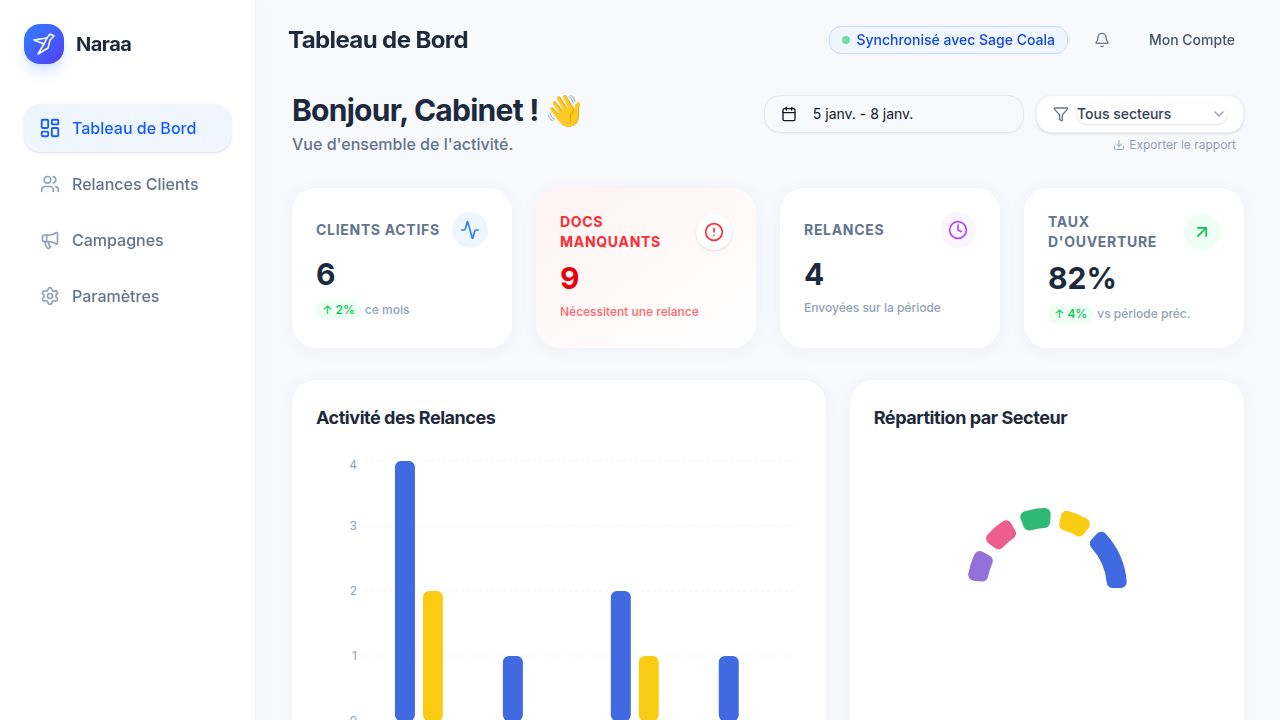
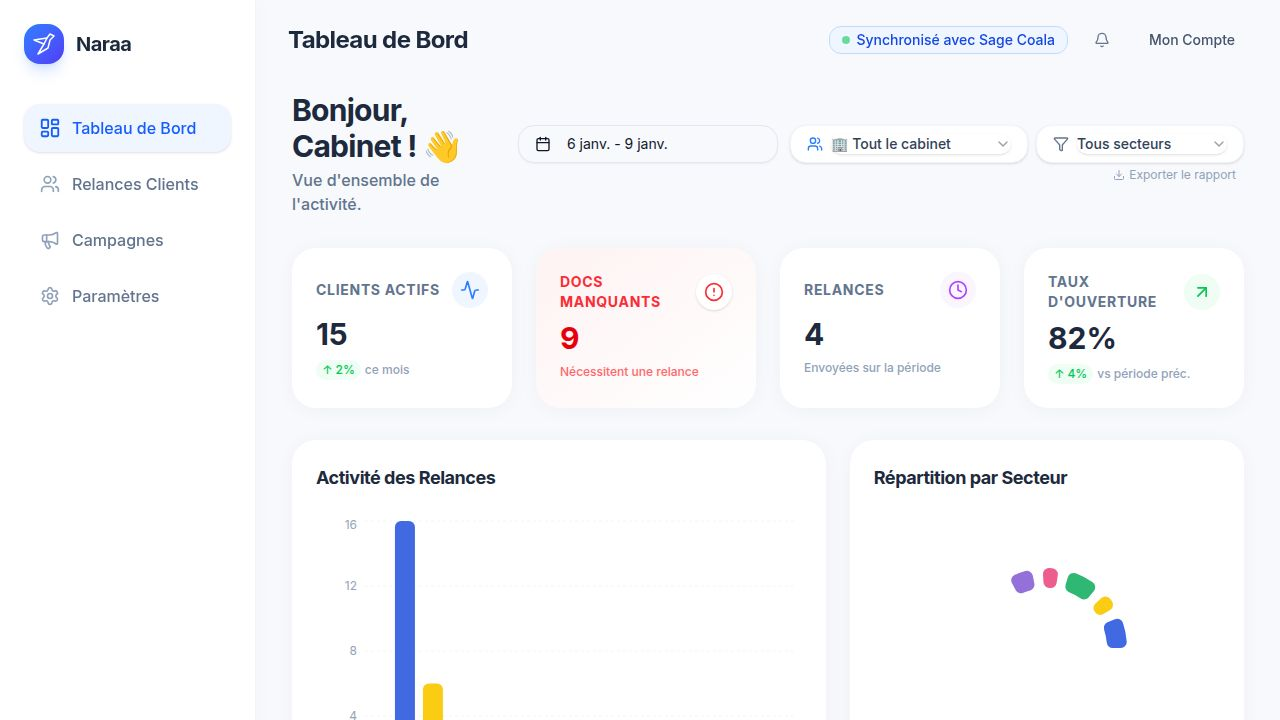
Add team member filtering to dashboard view
Integrates team member filtering on the dashboard, allowing users to view data aggregated by associates, collaborators, or the entire firm, and updates mock data with team member information and client assignments.

Replit-Commit-Author: Agent
Replit-Commit-Session-Id: c0703b9d-89b6-4631-8607-b3d2e10f8ac2
Replit-Commit-Checkpoint-Type: full_checkpoint
Replit-Commit-Event-Id: 6f1ac17b-f9d2-4d9a-b8ae-72bd7a6fa2ad
Replit-Commit-Screenshot-Url: https://storage.googleapis.com/screenshot-production-us-central1/aa67c514-b724-4d5a-8a85-482ac77d083c/c0703b9d-89b6-4631-8607-b3d2e10f8ac2/DarMPFz
Replit-Helium-Checkpoint-Created: true

diff --git a/client/src/pages/dashboard.tsx b/client/src/pages/dashboard.tsx
@@ -1,6 +1,7 @@
 import Layout from "@/components/layout/Layout";
 import { Card, CardContent, CardHeader, CardTitle } from "@/components/ui/card";
-import { mockClients, mockDocuments, mockReminders, mockAccountingEntries, mockCampaigns } from "@/lib/mockData";
+import { mockClients, mockDocuments, mockReminders, mockAccountingEntries, mockCampaigns, mockTeamMembers } from "@/lib/mockData";
+import { Users } from "lucide-react";
 import { ArrowUpRight, AlertCircle, Filter, Activity, Clock, ChevronRight, Calendar as CalendarIcon, Mail, Send, XCircle, AlertTriangle, ArrowUpDown, Download, MessageSquare, Phone } from "lucide-react";
 import { RadioGroup, RadioGroupItem } from "@/components/ui/radio-group";
 import { BarChart, Bar, XAxis, YAxis, CartesianGrid, Tooltip, ResponsiveContainer, PieChart, Pie, Cell, Legend } from 'recharts';
@@ -49,7 +50,28 @@ const COLORS = ['hsl(225 73% 57%)', 'hsl(48 96% 53%)', 'hsl(150 60% 45%)', 'hsl(
 export default function Dashboard() {
   const { t, dateLocale } = useLanguage();
   const [sectorFilter, setSectorFilter] = useState("All");
+  const [teamFilter, setTeamFilter] = useState("all"); // 'all', 'associates', 'collaborators', or specific member ID
   const [activeIntegration, setActiveIntegration] = useState<string | null>('sage');
+
+  // Team filtering helpers
+  const associates = mockTeamMembers.filter(m => m.role === 'associate');
+  const collaborators = mockTeamMembers.filter(m => m.role === 'collaborator');
+
+  const getFilteredClientsByTeam = () => {
+    if (teamFilter === 'all') return mockClients;
+    if (teamFilter === 'associates') {
+      const associateIds = associates.map(a => a.id);
+      return mockClients.filter(c => associateIds.includes(c.managerId));
+    }
+    if (teamFilter === 'collaborators') {
+      const collaboratorIds = collaborators.map(c => c.id);
+      return mockClients.filter(c => collaboratorIds.includes(c.managerId));
+    }
+    // Specific team member
+    return mockClients.filter(c => c.managerId === teamFilter);
+  };
+
+  const teamFilteredClients = getFilteredClientsByTeam();
 
   useEffect(() => {
     // Check for saved integration
@@ -169,15 +191,18 @@ Votre Expert-Comptable`
     return isWithinInterval(d, { start: date.from, end: end });
   };
 
-  const filteredClients = mockClients.filter(c => {
+  const filteredClients = teamFilteredClients.filter(c => {
     const sectorMatch = sectorFilter === "All" || c.sector === sectorFilter;
     return sectorMatch && c.status === 'active';
   });
 
   const totalClients = filteredClients.length;
   
+  const teamFilteredClientIds = teamFilteredClients.map(c => c.id);
+
   const filteredDocs = mockDocuments.filter(d => 
-    d.status === 'missing' && 
+    d.status === 'missing' &&
+    teamFilteredClientIds.includes(d.clientId) && 
     filteredClients.map(c => c.id).includes(d.clientId) &&
     // Show missing documents that were due in the period or are overdue
     (isInDateRange(d.dueDate) || new Date(d.dueDate) < new Date()) 
@@ -440,19 +465,57 @@ Votre Expert-Comptable`
             </div>
 
              <div className="flex flex-col items-end gap-1">
-               <div className="flex items-center gap-2 bg-white dark:bg-slate-900 px-4 py-2 rounded-2xl shadow-sm border border-slate-100 dark:border-slate-800">
-                 <Filter className="h-4 w-4 text-slate-500 dark:text-slate-400" />
-                 <Select value={sectorFilter} onValueChange={setSectorFilter}>
-                   <SelectTrigger className="border-none h-auto p-0 focus:ring-0 w-[150px] font-medium text-slate-700 dark:text-slate-300 bg-transparent">
-                     <SelectValue placeholder={t("dashboard.all_sectors")} />
-                   </SelectTrigger>
-                   <SelectContent className="rounded-xl border-slate-100 dark:border-slate-800 dark:bg-slate-900 shadow-lg">
-                     <SelectItem value="All" className="rounded-lg cursor-pointer dark:text-slate-300 dark:focus:bg-slate-800">{t("dashboard.all_sectors")}</SelectItem>
-                     {uniqueSectors.map(s => (
-                       <SelectItem key={s} value={s} className="rounded-lg cursor-pointer dark:text-slate-300 dark:focus:bg-slate-800">{s}</SelectItem>
-                     ))}
-                   </SelectContent>
-                 </Select>
+               <div className="flex items-center gap-2">
+                 {/* Team Filter */}
+                 <div className="flex items-center gap-2 bg-white dark:bg-slate-900 px-4 py-2 rounded-2xl shadow-sm border border-slate-100 dark:border-slate-800">
+                   <Users className="h-4 w-4 text-blue-500 dark:text-blue-400" />
+                   <Select value={teamFilter} onValueChange={setTeamFilter}>
+                     <SelectTrigger className="border-none h-auto p-0 focus:ring-0 w-[180px] font-medium text-slate-700 dark:text-slate-300 bg-transparent">
+                       <SelectValue placeholder="Tout le cabinet" />
+                     </SelectTrigger>
+                     <SelectContent className="rounded-xl border-slate-100 dark:border-slate-800 dark:bg-slate-900 shadow-lg max-h-[400px]">
+                       <SelectItem value="all" className="rounded-lg cursor-pointer dark:text-slate-300 dark:focus:bg-slate-800 font-semibold">
+                         🏢 Tout le cabinet
+                       </SelectItem>
+                       <SelectItem value="associates" className="rounded-lg cursor-pointer dark:text-slate-300 dark:focus:bg-slate-800 font-semibold text-purple-600 dark:text-purple-400">
+                         👔 Tous les Associés ({associates.length})
+                       </SelectItem>
+                       <SelectItem value="collaborators" className="rounded-lg cursor-pointer dark:text-slate-300 dark:focus:bg-slate-800 font-semibold text-teal-600 dark:text-teal-400">
+                         👥 Tous les Collaborateurs ({collaborators.length})
+                       </SelectItem>
+                       <div className="my-1 border-t border-slate-100 dark:border-slate-800" />
+                       <div className="px-2 py-1 text-xs font-semibold text-slate-400 uppercase">Associés</div>
+                       {associates.map(member => (
+                         <SelectItem key={member.id} value={member.id} className="rounded-lg cursor-pointer dark:text-slate-300 dark:focus:bg-slate-800 pl-4">
+                           {member.name}
+                         </SelectItem>
+                       ))}
+                       <div className="my-1 border-t border-slate-100 dark:border-slate-800" />
+                       <div className="px-2 py-1 text-xs font-semibold text-slate-400 uppercase">Collaborateurs</div>
+                       {collaborators.map(member => (
+                         <SelectItem key={member.id} value={member.id} className="rounded-lg cursor-pointer dark:text-slate-300 dark:focus:bg-slate-800 pl-4">
+                           {member.name}
+                         </SelectItem>
+                       ))}
+                     </SelectContent>
+                   </Select>
+                 </div>
+
+                 {/* Sector Filter */}
+                 <div className="flex items-center gap-2 bg-white dark:bg-slate-900 px-4 py-2 rounded-2xl shadow-sm border border-slate-100 dark:border-slate-800">
+                   <Filter className="h-4 w-4 text-slate-500 dark:text-slate-400" />
+                   <Select value={sectorFilter} onValueChange={setSectorFilter}>
+                     <SelectTrigger className="border-none h-auto p-0 focus:ring-0 w-[150px] font-medium text-slate-700 dark:text-slate-300 bg-transparent">
+                       <SelectValue placeholder={t("dashboard.all_sectors")} />
+                     </SelectTrigger>
+                     <SelectContent className="rounded-xl border-slate-100 dark:border-slate-800 dark:bg-slate-900 shadow-lg">
+                       <SelectItem value="All" className="rounded-lg cursor-pointer dark:text-slate-300 dark:focus:bg-slate-800">{t("dashboard.all_sectors")}</SelectItem>
+                       {uniqueSectors.map(s => (
+                         <SelectItem key={s} value={s} className="rounded-lg cursor-pointer dark:text-slate-300 dark:focus:bg-slate-800">{s}</SelectItem>
+                       ))}
+                     </SelectContent>
+                   </Select>
+                 </div>
                </div>
                <button 
                   onClick={handleExportDashboard}

diff --git a/client/src/lib/mockData.ts b/client/src/lib/mockData.ts
@@ -3,6 +3,35 @@ import { subDays, format } from "date-fns";
 const today = new Date();
 const formatDate = (date: Date) => format(date, 'yyyy-MM-dd');
 
+// Team Members
+export interface TeamMember {
+  id: string;
+  name: string;
+  role: 'associate' | 'collaborator';
+  email: string;
+  avatar?: string;
+}
+
+export const mockTeamMembers: TeamMember[] = [
+  // 3 Associates
+  { id: 'tm1', name: 'Sarah Lambert', role: 'associate', email: 'sarah.lambert@cabinet.fr' },
+  { id: 'tm2', name: 'Marc Durand', role: 'associate', email: 'marc.durand@cabinet.fr' },
+  { id: 'tm3', name: 'Claire Fontaine', role: 'associate', email: 'claire.fontaine@cabinet.fr' },
+  // 12 Collaborators
+  { id: 'tm4', name: 'Julie Moreau', role: 'collaborator', email: 'julie.moreau@cabinet.fr' },
+  { id: 'tm5', name: 'Thomas Bernard', role: 'collaborator', email: 'thomas.bernard@cabinet.fr' },
+  { id: 'tm6', name: 'Emma Petit', role: 'collaborator', email: 'emma.petit@cabinet.fr' },
+  { id: 'tm7', name: 'Lucas Martin', role: 'collaborator', email: 'lucas.martin@cabinet.fr' },
+  { id: 'tm8', name: 'Léa Dubois', role: 'collaborator', email: 'lea.dubois@cabinet.fr' },
+  { id: 'tm9', name: 'Hugo Leroy', role: 'collaborator', email: 'hugo.leroy@cabinet.fr' },
+  { id: 'tm10', name: 'Camille Roux', role: 'collaborator', email: 'camille.roux@cabinet.fr' },
+  { id: 'tm11', name: 'Nathan Garcia', role: 'collaborator', email: 'nathan.garcia@cabinet.fr' },
+  { id: 'tm12', name: 'Manon Lefebvre', role: 'collaborator', email: 'manon.lefebvre@cabinet.fr' },
+  { id: 'tm13', name: 'Enzo Michel', role: 'collaborator', email: 'enzo.michel@cabinet.fr' },
+  { id: 'tm14', name: 'Chloé Simon', role: 'collaborator', email: 'chloe.simon@cabinet.fr' },
+  { id: 'tm15', name: 'Mathis Laurent', role: 'collaborator', email: 'mathis.laurent@cabinet.fr' },
+];
+
 export interface Contact {
   id: string;
   name: string;
@@ -22,6 +51,7 @@ export interface Client {
   company: string;
   siren: string;
   manager: string;
+  managerId: string; // Team member ID
   sector: 'BTP' | 'Restauration' | 'Services' | 'Commerce' | 'Santé';
   status: 'active' | 'archived';
   lastContact: string;
@@ -93,7 +123,8 @@ export const mockClients: Client[] = [
     phone: '06 12 34 56 78',
     company: 'TechSolutions SAS',
     siren: '802 934 192',
-    manager: 'Sarah L.',
+    manager: 'Sarah Lambert',
+    managerId: 'tm1',
     sector: 'Services',
     status: 'active',
     lastContact: formatDate(subDays(today, 2)),
@@ -116,7 +147,8 @@ export const mockClients: Client[] = [
     phone: '06 98 76 54 32',
     company: 'Boulangerie Martin',
     siren: '401 293 847',
-    manager: 'Marc D.',
+    manager: 'Marc Durand',
+    managerId: 'tm2',
     sector: 'Restauration',
     status: 'active',
     lastContact: formatDate(subDays(today, 1)),
@@ -131,7 +163,8 @@ export const mockClients: Client[] = [
     phone: '07 11 22 33 44',
     company: 'Durand BTP',
     siren: '902 384 112',
-    manager: 'Sarah L.',
+    manager: 'Julie Moreau',
+    managerId: 'tm4',
     sector: 'BTP',
     status: 'active',
     lastContact: formatDate(subDays(today, 5)),
@@ -146,7 +179,8 @@ export const mockClients: Client[] = [
     phone: '06 55 44 33 22',
     company: 'Lefebvre Design',
     siren: '550 192 384',
-    manager: 'Marc D.',
+    manager: 'Thomas Bernard',
+    managerId: 'tm5',
     sector: 'Services',
     status: 'active',
     lastContact: formatDate(subDays(today, 10)),
@@ -161,7 +195,8 @@ export const mockClients: Client[] = [
     phone: '06 11 22 33 44',
     company: 'Cabinet Médical Bernard',
     siren: '302 491 823',
-    manager: 'Sarah L.',
+    manager: 'Claire Fontaine',
+    managerId: 'tm3',
     sector: 'Santé',
     status: 'active',
     lastContact: formatDate(subDays(today, 3)),
@@ -176,13 +211,158 @@ export const mockClients: Client[] = [
     phone: '06 99 88 77 66',
     company: 'Mode & Co',
     siren: '823 491 002',
-    manager: 'Marc D.',
+    manager: 'Emma Petit',
+    managerId: 'tm6',
     sector: 'Commerce',
     status: 'active',
     lastContact: formatDate(subDays(today, 1)),
     pendingDocs: 4,
     totalDocs: 50,
     openRate: 75,
+  },
+  {
+    id: '7',
+    name: 'Antoine Mercier',
+    email: 'a.mercier@mercier-immo.fr',
+    phone: '06 78 90 12 34',
+    company: 'Mercier Immobilier',
+    siren: '912 384 556',
+    manager: 'Lucas Martin',
+    managerId: 'tm7',
+    sector: 'Services',
+    status: 'active',
+    lastContact: formatDate(subDays(today, 4)),
+    pendingDocs: 2,
+    totalDocs: 35,
+    openRate: 70,
+  },
+  {
+    id: '8',
+    name: 'Camille Rousseau',
+    email: 'camille@resto-gourmet.fr',
+    phone: '06 45 67 89 01',
+    company: 'Le Gourmet',
+    siren: '823 556 192',
+    manager: 'Léa Dubois',
+    managerId: 'tm8',
+    sector: 'Restauration',
+    status: 'active',
+    lastContact: formatDate(subDays(today, 2)),
+    pendingDocs: 3,
+    totalDocs: 42,
+    openRate: 55,
+  },
+  {
+    id: '9',
+    name: 'Paul Girard',
+    email: 'paul@girard-elec.fr',
+    phone: '07 23 45 67 89',
+    company: 'Girard Électricité',
+    siren: '756 912 384',
+    manager: 'Hugo Leroy',
+    managerId: 'tm9',
+    sector: 'BTP',
+    status: 'active',
+    lastContact: formatDate(subDays(today, 7)),
+    pendingDocs: 4,
+    totalDocs: 88,
+    openRate: 35,
+  },
+  {
+    id: '10',
+    name: 'Nathalie Perrin',
+    email: 'n.perrin@pharma-plus.fr',
+    phone: '06 12 78 34 56',
+    company: 'Pharmacie Plus',
+    siren: '384 756 912',
+    manager: 'Camille Roux',
+    managerId: 'tm10',
+    sector: 'Santé',
+    status: 'active',
+    lastContact: formatDate(subDays(today, 1)),
+    pendingDocs: 1,
+    totalDocs: 52,
+    openRate: 88,
+  },
+  {
+    id: '11',
+    name: 'François Blanc',
+    email: 'f.blanc@blanc-auto.fr',
+    phone: '06 90 12 34 56',
+    company: 'Blanc Automobiles',
+    siren: '556 823 491',
+    manager: 'Nathan Garcia',
+    managerId: 'tm11',
+    sector: 'Commerce',
+    status: 'active',
+    lastContact: formatDate(subDays(today, 6)),
+    pendingDocs: 6,
+    totalDocs: 95,
+    openRate: 42,
+  },
+  {
+    id: '12',
+    name: 'Isabelle Morel',
+    email: 'isabelle@morel-conseil.fr',
+    phone: '06 34 56 78 90',
+    company: 'Morel Consulting',
+    siren: '491 384 756',
+    manager: 'Manon Lefebvre',
+    managerId: 'tm12',
+    sector: 'Services',
+    status: 'active',
+    lastContact: formatDate(subDays(today, 3)),
+    pendingDocs: 1,
+    totalDocs: 28,
+    openRate: 78,
+  },
+  {
+    id: '13',
+    name: 'Marc Chevalier',
+    email: 'marc@chevalier-bat.fr',
+    phone: '07 56 78 90 12',
+    company: 'Chevalier Bâtiment',
+    siren: '192 556 823',
+    manager: 'Enzo Michel',
+    managerId: 'tm13',
+    sector: 'BTP',
+    status: 'active',
+    lastContact: formatDate(subDays(today, 8)),
+    pendingDocs: 7,
+    totalDocs: 110,
+    openRate: 28,
+  },
+  {
+    id: '14',
+    name: 'Anne Faure',
+    email: 'anne@faure-beaute.fr',
+    phone: '06 67 89 01 23',
+    company: 'Institut Beauté Anne',
+    siren: '823 192 556',
+    manager: 'Chloé Simon',
+    managerId: 'tm14',
+    sector: 'Commerce',
+    status: 'active',
+    lastContact: formatDate(subDays(today, 2)),
+    pendingDocs: 2,
+    totalDocs: 38,
+    openRate: 82,
+  },
+  {
+    id: '15',
+    name: 'Éric Bonnet',
+    email: 'eric@bonnet-plomberie.fr',
+    phone: '07 89 01 23 45',
+    company: 'Bonnet Plomberie',
+    siren: '556 491 823',
+    manager: 'Mathis Laurent',
+    managerId: 'tm15',
+    sector: 'BTP',
+    status: 'active',
+    lastContact: formatDate(subDays(today, 5)),
+    pendingDocs: 3,
+    totalDocs: 65,
+    openRate: 50,
   }
 ];
 
